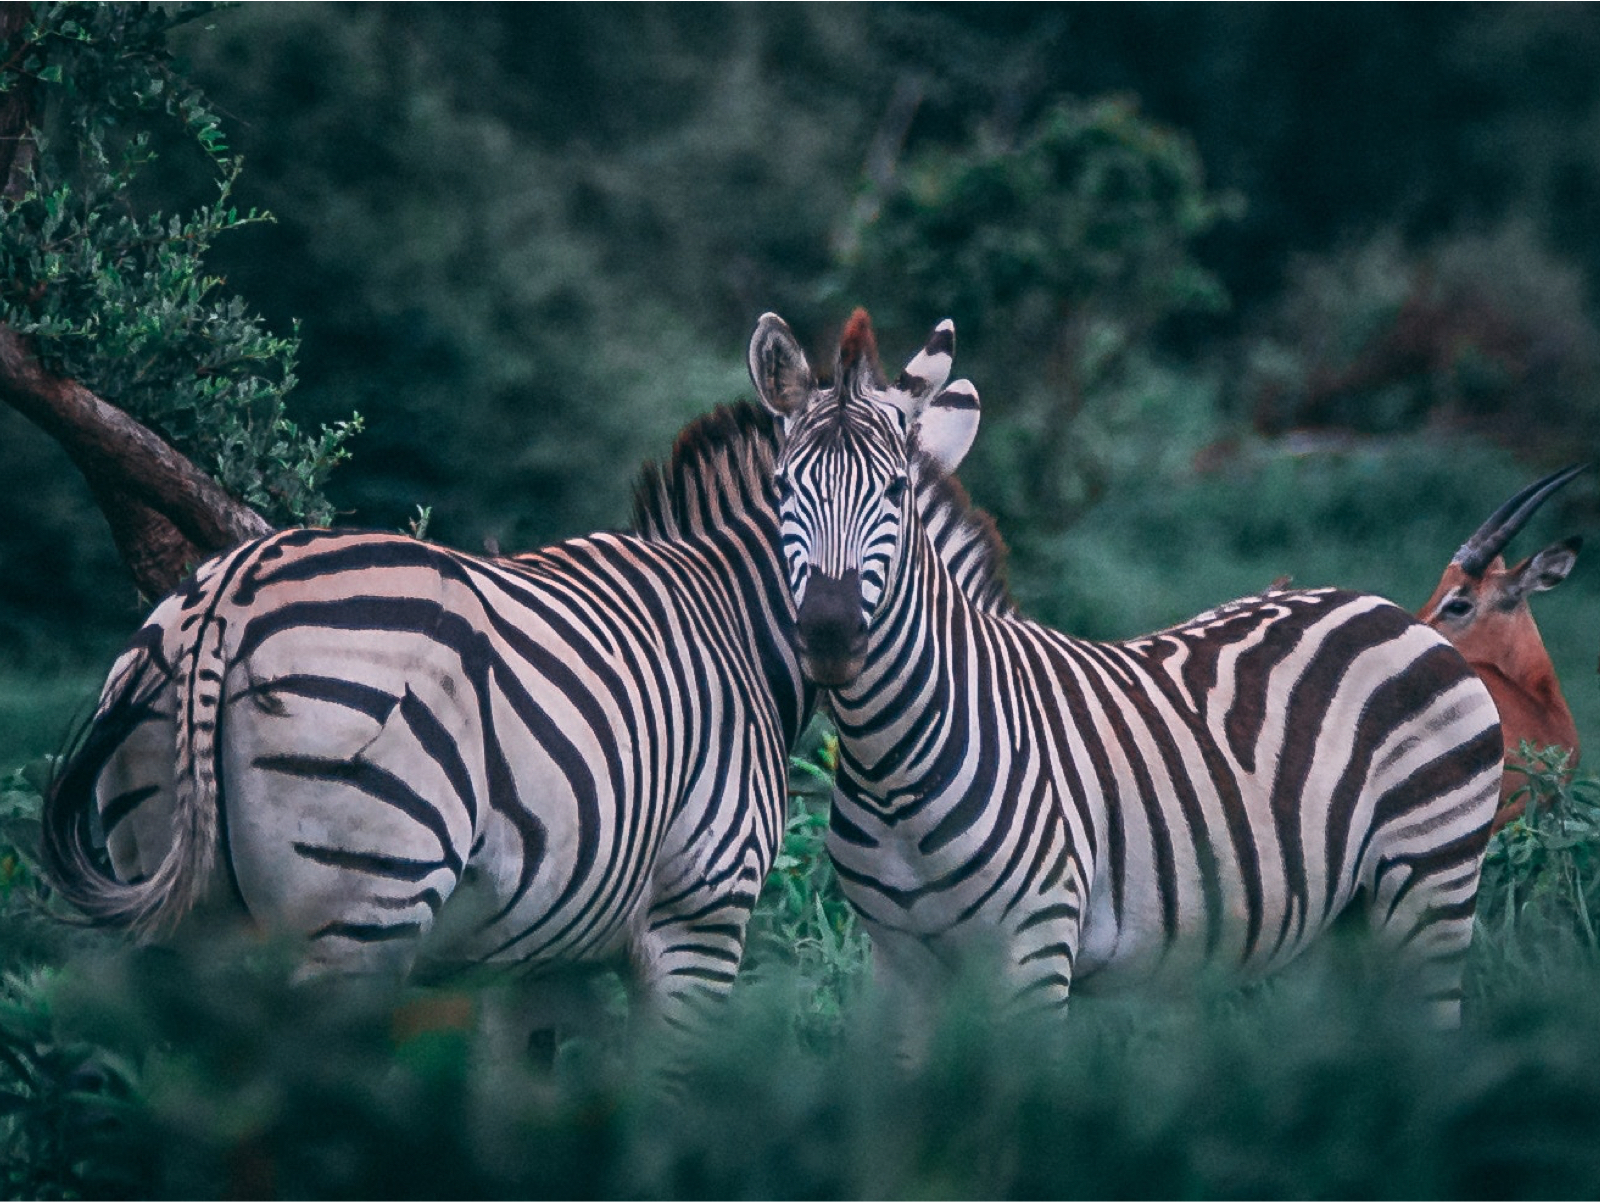
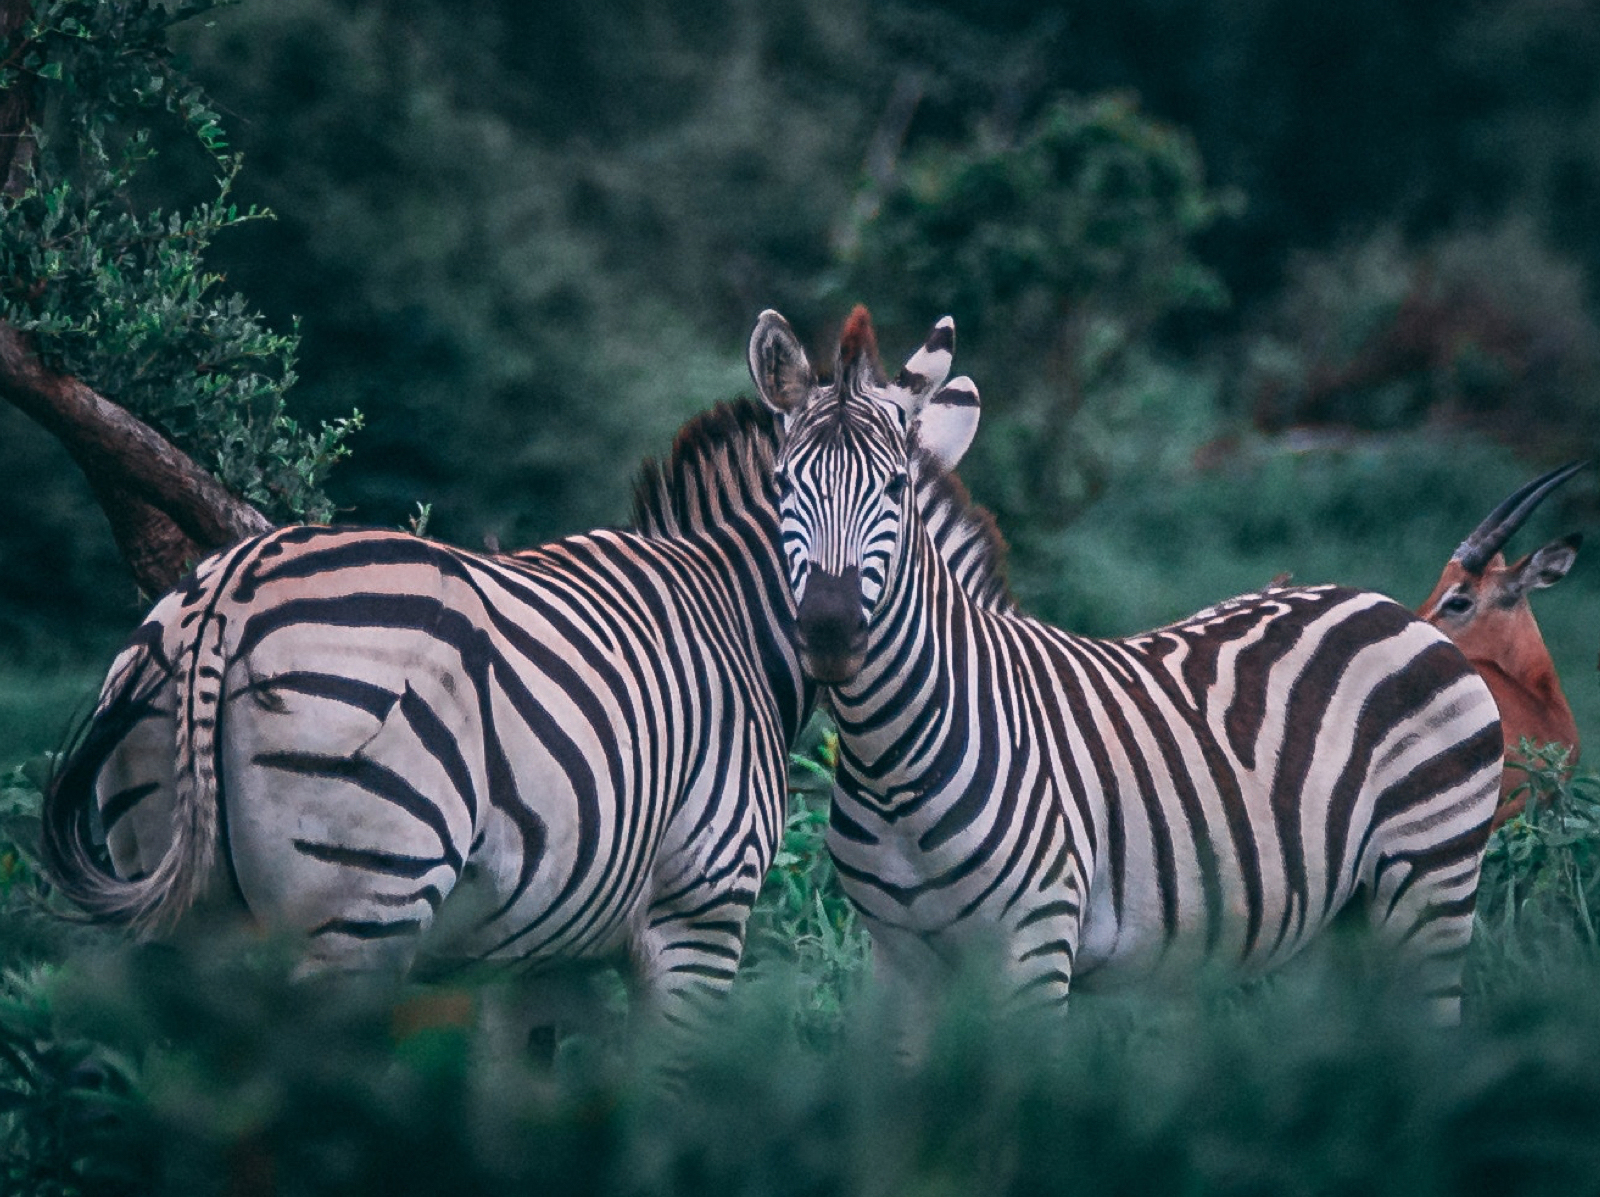
finishing blog section , edited out white edges on jpg

diff --git a/index.html b/index.html
@@ -79,11 +79,13 @@
 		</section>
 
 		<section class="blog" id="blog">
-			<div class="wrapper">
+			<div class="blog-frame">
 				<div class="blog-text-contanier">
-					<h3>fascinating facts about zebras</h3>
-					<p>Lorem ipsum dolor, sit amet consectetur adipisicing elit. Assumenda, nostrum, tenetur sapiente quam aliquam officiis tempora, voluptatibus nihil et amet nobis. Tenetur recusandae quisquam ipsa libero alias quia asperiores facilis error repudiandae officiis nihil aperiam fugit blanditiis dicta provident laborum suscipit rerum in magni nesciunt, quasi modi voluptates. Ullam, modi?</p>
-					<button>read more</button>
+						<div class="text-layout">
+							<h3>fascinating facts about zebras</h3>
+							<p>Lorem ipsum dolor, sit amet consectetur adipisicing elit. Assumenda, nostrum, tenetur sapiente quam aliquam officiis tempora, voluptatibus nihil et amet nobis. Tenetur recusandae quisquam ipsa libero alias quia asperiores facilis error repudiandae officiis nihil aperiam fugit blanditiis dicta provident laborum suscipit rerum in magni nesciunt, quasi modi voluptates. Ullam, modi?</p>
+							<button>read more</button>
+						</div>
 				</div>
 				<div class="blog-image-contanier">
 					<img src="./styles/image-7.jpg" alt="zebra">
@@ -92,9 +94,11 @@
 					<img src="./styles/image-2.jpg" alt="cat high five">
 				</div>
 				<div class="blog-text-contanier">
-					<h3>the bond between animals and humans</h3>
-					<p>Lorem, ipsum dolor sit amet consectetur adipisicing elit. Ipsum provident animi accusamus voluptas autem temporibus perferendis veniam expedita, perspiciatis ab amet natus nemo minima accusantium cumque, reiciendis non. Error, quae ad similique nihil delectus praesentium qui cum, ab aperiam magni ea porro quos totam maiores accusamus? Ducimus illo accusamus magnam?</p>
-					<button>read more</button>
+					<div class="text-layout">
+							<h3>fascinating facts about zebras</h3>
+							<p>Lorem ipsum dolor, sit amet consectetur adipisicing elit. Assumenda, nostrum, tenetur sapiente quam aliquam officiis tempora, voluptatibus nihil et amet nobis. Tenetur recusandae quisquam ipsa libero alias quia asperiores facilis error repudiandae officiis nihil aperiam fugit blanditiis dicta provident laborum suscipit rerum in magni nesciunt, quasi modi voluptates. Ullam, modi?</p>
+							<button>read more</button>
+					</div>
 				</div>
 			</div>
 		</section>

diff --git a/styles/sass/_main-second-half.scss b/styles/sass/_main-second-half.scss
@@ -44,19 +44,77 @@
 // blog section
 
 .blog {
-    margin-top: 5%;
+    margin: 0;
+    padding: 0;
+    max-height: 150vh;
+    display: flex;
     
-    .wrapper{
-        height: 100vh;
-        justify-content: center;
-    }
-    .blog-text-contanier{
-        height: 400px;
-        width: 400px;
+    
+    .blog-frame{
+        margin: 0;
+        padding: 0;
+        display: flex;
+        flex-wrap: wrap;
+
+
+        .blog-text-contanier{
+            width: 50%;
+            display: flex;
+            flex-direction: column;
+            background-color: black;
+            .text-layout{
+                display: flex;
+                flex-direction: column;
+                justify-content: center;
+                width: 500px;
+                margin: 0 auto;
+                padding-top: 5%;
+                h3{
+                    color: $third-color;
+                    font-family: $second-Font;
+                    font-size: 1.9rem;
+                    font-weight: 400;
+                    text-transform: uppercase;
+                }
+                p{
+                   font-size: 1.2rem;
+                   font-family: $first-Font;
+                   color: $first-color;
+                   line-height: 29px; 
+                
+                }
+                button{
+                        width: 10%;
+                        font-family: $first-Font;
+                        text-align: center;
+                        line-height: 29px;
+                        border: 1px solid $third-color;
+                        padding: 10px 30px;
+                        font-weight: 500;
+                        text-transform: uppercase;
+                        margin-top: 1.5%;
+                        width: 40%;
+                        background-color: $third-color;
+                        color: $first-color;
+                    
+                }
+                
+            }
+            
         
+            }
+        }
+        .blog-image-contanier{
+            
+            width: 50%;
+            flex-basis: 50%;
+            img{
+                max-width: 100%;
+                display: block;
+                height: 100%
+            }
+        }
     }
-    .blog-image-contanier{
-        height: 400px;
-        width: 400px;
-    }
-}
+
+
+// contact section

diff --git a/styles/styles.css b/styles/styles.css
@@ -418,21 +418,84 @@ nav ul a {
 }
 
 .blog {
-  margin-top: 5%;
+  margin: 0;
+  padding: 0;
+  max-height: 150vh;
+  display: -webkit-box;
+  display: -ms-flexbox;
+  display: flex;
 }
-.blog .wrapper {
-  height: 100vh;
+.blog .blog-frame {
+  margin: 0;
+  padding: 0;
+  display: -webkit-box;
+  display: -ms-flexbox;
+  display: flex;
+  -ms-flex-wrap: wrap;
+      flex-wrap: wrap;
+}
+.blog .blog-frame .blog-text-contanier {
+  width: 50%;
+  display: -webkit-box;
+  display: -ms-flexbox;
+  display: flex;
+  -webkit-box-orient: vertical;
+  -webkit-box-direction: normal;
+      -ms-flex-direction: column;
+          flex-direction: column;
+  background-color: black;
+}
+.blog .blog-frame .blog-text-contanier .text-layout {
+  display: -webkit-box;
+  display: -ms-flexbox;
+  display: flex;
+  -webkit-box-orient: vertical;
+  -webkit-box-direction: normal;
+      -ms-flex-direction: column;
+          flex-direction: column;
   -webkit-box-pack: center;
       -ms-flex-pack: center;
           justify-content: center;
+  width: 500px;
+  margin: 0 auto;
+  padding-top: 5%;
 }
-.blog .blog-text-contanier {
-  height: 400px;
-  width: 400px;
+.blog .blog-frame .blog-text-contanier .text-layout h3 {
+  color: #152D20;
+  font-family: "Fredericka the Great", cursive;
+  font-size: 1.9rem;
+  font-weight: 400;
+  text-transform: uppercase;
+}
+.blog .blog-frame .blog-text-contanier .text-layout p {
+  font-size: 1.2rem;
+  font-family: "Cormorant Garamond", serif;
+  color: #FCFCFC;
+  line-height: 29px;
+}
+.blog .blog-frame .blog-text-contanier .text-layout button {
+  width: 10%;
+  font-family: "Cormorant Garamond", serif;
+  text-align: center;
+  line-height: 29px;
+  border: 1px solid #152D20;
+  padding: 10px 30px;
+  font-weight: 500;
+  text-transform: uppercase;
+  margin-top: 1.5%;
+  width: 40%;
+  background-color: #152D20;
+  color: #FCFCFC;
 }
 .blog .blog-image-contanier {
-  height: 400px;
-  width: 400px;
+  width: 50%;
+  -ms-flex-preferred-size: 50%;
+      flex-basis: 50%;
+}
+.blog .blog-image-contanier img {
+  max-width: 100%;
+  display: block;
+  height: 100%;
 }
 
 .wrapper {

diff --git a/styles/sass/styles.scss b/styles/sass/styles.scss
@@ -5,6 +5,8 @@
 @import 'main-second-half';
 @import 'footer';
 
+
+
 .wrapper{
     margin: 0 auto;
     padding: 0;
